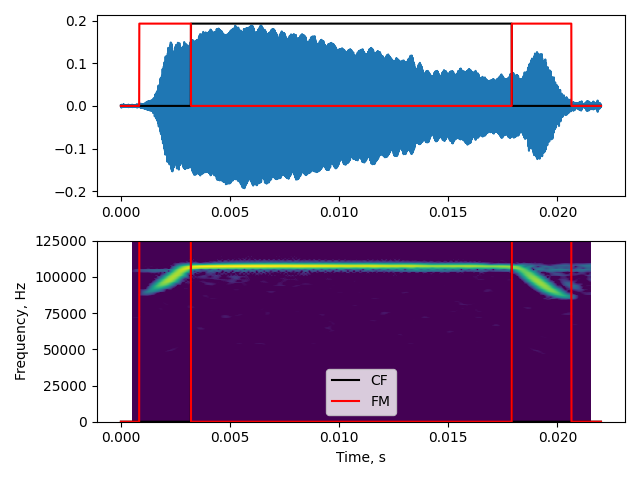
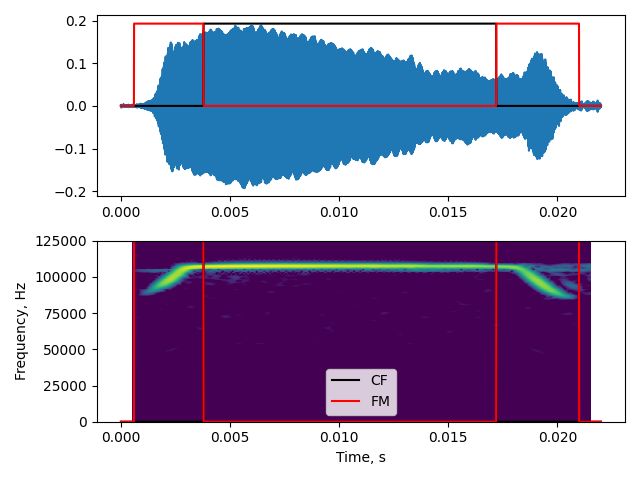
> include peak percentage example > include diagnostics plots for peak-percentage segmentation in view module

diff --git a/examples/plot_peak_percentage.py b/examples/plot_peak_percentage.py
@@ -1,0 +1,80 @@
+"""
+The peak-percentage method
+^^^^^^^^^^^^^^^^^^^^^^^^^^
+
+The peak percentage method works if the constant frequency portion of a sound segment 
+is the highest frequency. For instance, in CF-FM bat calls, the calls typically have 
+a CF and one or two FM segments connected. 
+
+This method is loosely based on the spectrogram based CF-FM segmentation in [1], but most importantly
+it differs because it is implemented completely in the time-domain. 
+
+
+How does it work?
+>>>>>>>>>>>>>>>>>
+A constant frequency segment in any sound leads to a peak in the power spectrum. The same audio 
+is high-passed and low-passed at a threshold frequency that's very close (eg. 99% of the peak frequency)
+ and just below the peak frequency. This creates two versions of the same sound, one with an emphasis on the CF, and one with the emphasis on 
+the FM. By comparing the two sounds, the segmentation proceeds to detect CF and FM parts. 
+
+
+References
+
+[1]Schoeppler, D., Schnitzler, H. U., & Denzinger, A. (2018). Precise Doppler shift compensation in the hipposiderid bat, 
+   Hipposideros armiger. Scientific reports, 8(1), 1-11.
+
+"""
+import matplotlib.pyplot as plt
+import scipy.signal as signal 
+import itsfm
+from itsfm.simulate_calls import make_cffm_call
+from itsfm.segment import segment_call_into_cf_fm 
+
+
+# %% Let's load the example data from the `data` module of the package
+
+from itsfm.data import example_calls, all_wav_files
+
+bat_rec = list(map( lambda X: '2018-08-17_34_134' in X, all_wav_files))
+index = bat_rec.index(True)
+audio, fs = example_calls[index] # load the relevant example audio
+
+w,s = itsfm.visualise_sound(audio,fs, fft_size=128)
+# set the ylim of the spectrogram narrow to check out the call in more detail
+s.set_ylim(60000, 125000)
+
+
+
+# %% 
+# Now, let's proceed to run the peak-percentage based segmentation. 
+non_default_params = {'segment_method':'peak_percentage',
+                      'window_size':int(fs*0.0015),
+                      'signal_level':-30,
+                      'double_pass':True}
+outputs = itsfm.segment_and_measure_call(audio, fs, 
+                                        **non_default_params)
+
+# load the results into a convenience class 
+# itsFMinspector parses the output and creates diagnostic plots
+# and access to the underlying diagnostic data itself
+
+output_inspect = itsfm.itsFMInspector(outputs, audio, fs)
+
+
+
+# %% 
+# Verifying the CF-FM segmentations
+# >>>>>>>>>>>>>>>>>>>>>>>>>>>>>>>>>
+# Here, let's see where the calls are in time and how they match the spectrogram output
+
+output_inspect.visualise_cffm_segmentation()
+plt.tight_layout()
+plt.savefig('pwvd_cffm_segmentation.png')
+output_inspect.visualise_cffm_segmentation()
+plt.tight_layout()
+
+
+
+spec, profiles = output_inspect.visualise_pkpctage_profiles()
+profiles.legend(loc=9, frameon=False)
+plt.savefig('pkpctage_profiles.png')

diff --git a/itsfm/view.py b/itsfm/view.py
@@ -137,6 +137,18 @@ class itsFMInspector:
         make_waveform(self.whole_audio, self.fs,)
         return a,b
     
+    def visualise_pkpctage_profiles(self):
+        '''
+        '''
+        plt.figure()
+        a = plt.subplot(211)
+        make_specgram(self.whole_audio, self.fs, **self.kwargs);
+        a.set_ylabel('Frequency, Hz', labelpad=-1.5)
+        b = plt.subplot(212, sharex=a)
+        plot_dbrms_cffmprofiles(self.seg_details,self.fs)
+        return a,b 
+       
+    
     def visualise_geq_signallevel(self):
         '''
         Some tracking/segmentation methods rely on using only
@@ -163,7 +175,6 @@ class itsFMInspector:
         wave_max = np.max(np.abs(self.whole_audio))
         plt.plot(time_axis, above_siglevel*wave_max, label='$\geq$ signal level')
         return a, b
-        
         
         
         
@@ -408,4 +419,33 @@ def plot_cf_measurements(call, fs, measures, subplot, **kwargs):
     subplot.hlines(peak_frequency,measures['cf_start'],
                                measures['cf_end'], 'b')
     return subplot 
+
+
+def plot_dbrms_cffmprofiles(seg_details, fs):
+    '''
+    Makes a plot with CF anf FM dB rms profiles. This method only works for 
+    peak-percentage based segmentation. 
     
+    Parameters
+    ----------
+    seg_details : tuple
+        Tuple with 3 entries. The third entry needs to be a dictionary with 
+        at least the following keys : 'cf_re_fm' and 'fm_re_cf'
+    fs : float>0
+        Sample rate in Hz
+    
+    Returns 
+    -------
+    matplotlib plot
+    '''
+    time_axis = np.linspace(0,seg_details[2]['cf_re_fm'].size/fs,seg_details[2]['cf_re_fm'].size)
+    try:
+        plt.plot(time_axis, seg_details[2]['cf_re_fm'], label='$high - low$ passed dBrms')
+        plt.plot(time_axis, seg_details[2]['fm_re_cf'], label='$low - high$ passed dBrms', linestyle='dotted')
+        plt.legend(frameon=False)
+    except:
+        raise KeyError('Unable to find cf_re_fm and fm_re_cf keys in the segmentation output. Are you sure this is output from peak percentage method?')
+
+        
+
+
